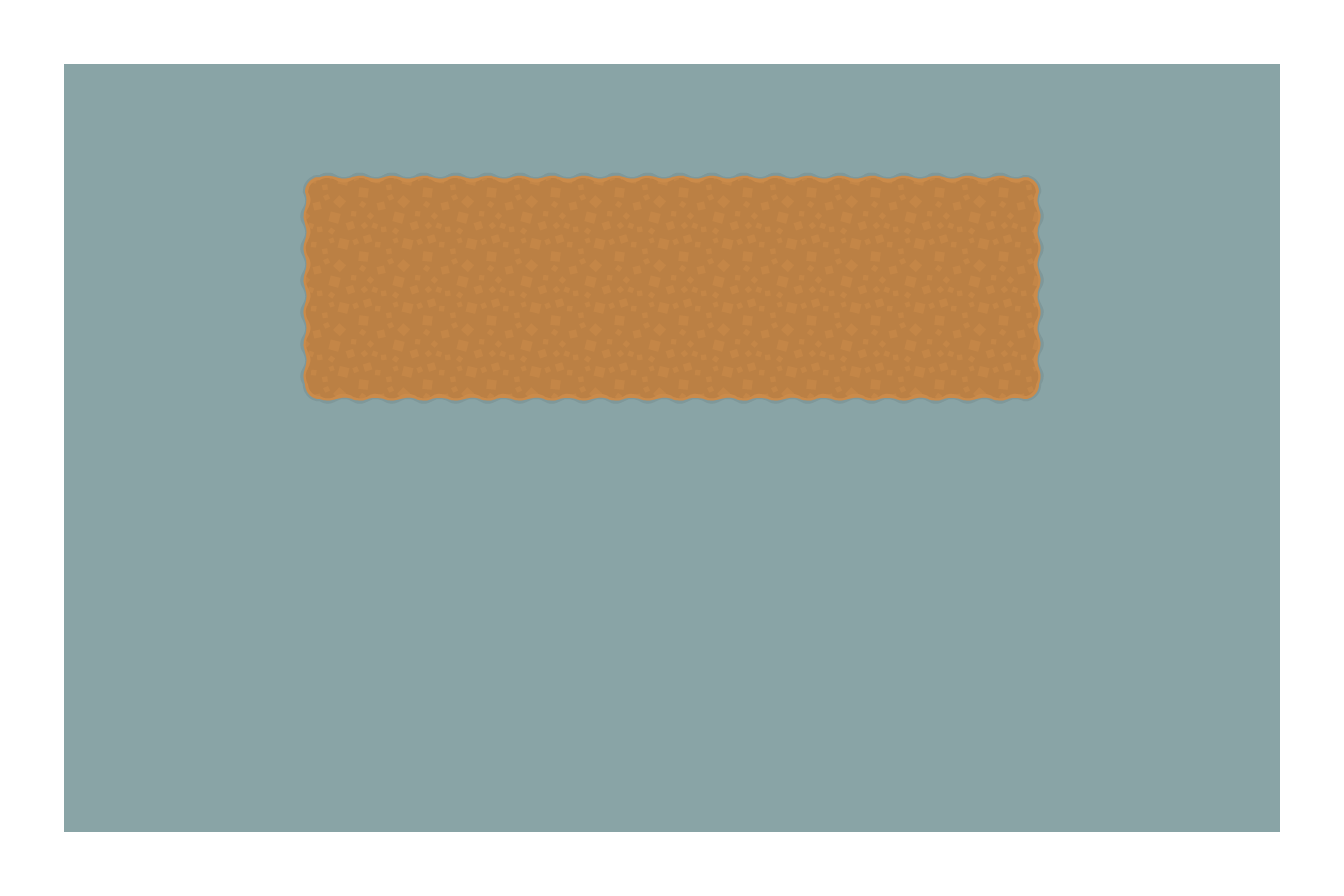
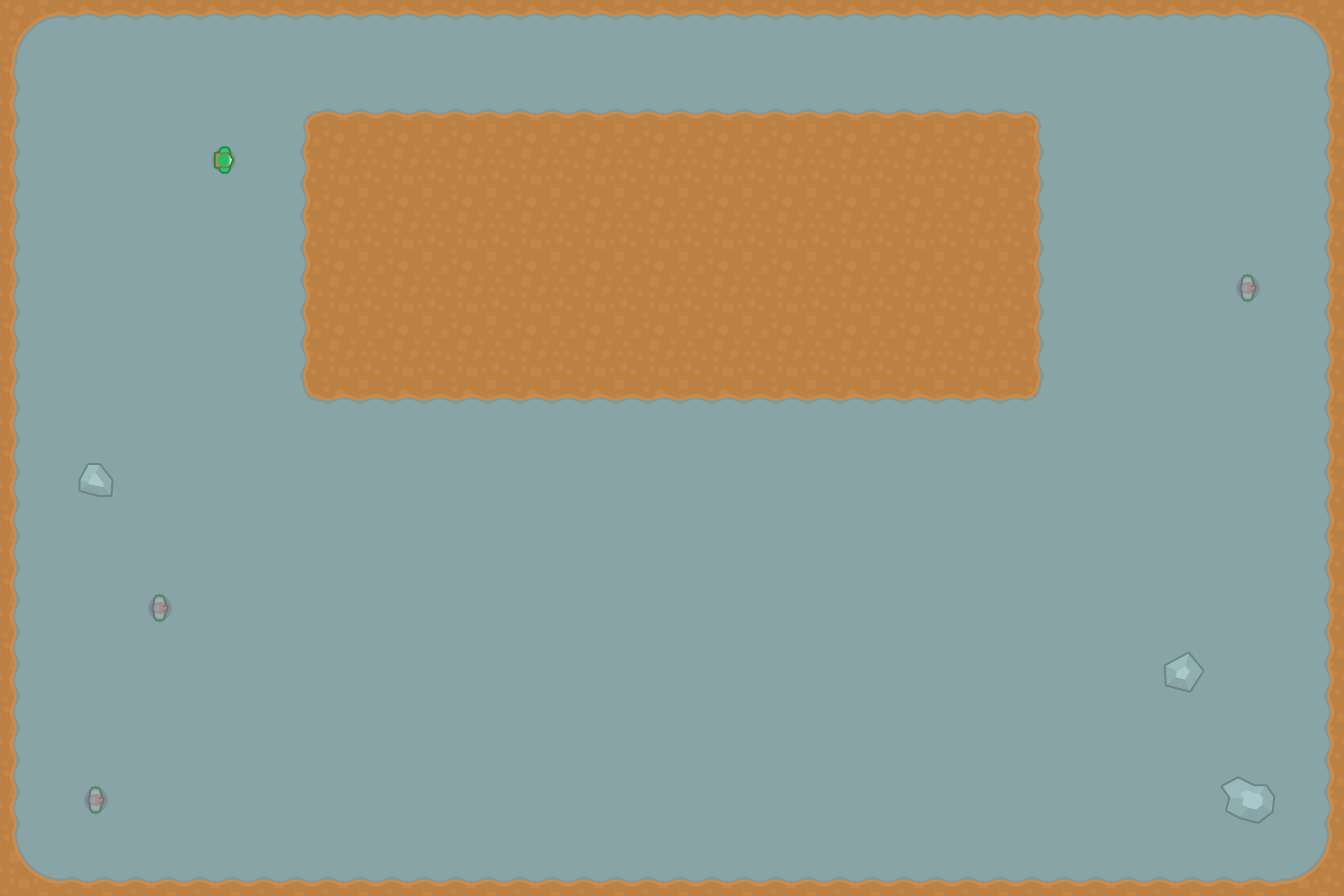
Add losing screen

diff --git a/States/levels/level1.js b/States/levels/level1.js
@@ -32,6 +32,10 @@ const level1State = {
         //Load pause and start buttons
         Game.load.image('pauseButton', './/IMG/pauseButton.png');
         Game.load.image('playButton', './/IMG/playButton.png');
+
+        //Load lose screen atributes
+        Game.load.image('loseBackground', './/IMG/loseScreenBackground.png');
+        Game.load.image('buttonTemplate', './/IMG/buttonTemplate.png');
     },
 
 
@@ -66,7 +70,6 @@ const level1State = {
 
         //Create pause and start buttons
         this.createPausePlayButton('pauseButton');
-
     },
 
     //Functions for create
@@ -292,18 +295,22 @@ const level1State = {
         }
     },
     endGame: function () {
-        // this.enemyTroops.children.forEach(enemy => {
-        //     enemy.body.velocity = 0;
-        // })
+        this.enemyTroops.children.forEach(enemy => {
+            enemy.body.velocity = 0;
+        })
+        Game.paused = true;
+        // Game.camera.fade('#000000', 1000, true, 0.7);
 
-        Game.camera.fade('#000000', 1000, true, 0.7);
+        // Game.camera.onFadeComplete.add(() => {
+        //     Game.world.removeAll();
+        //     this.laodLoseScreen();
+        // });
 
-        Game.camera.onFadeComplete.add(() => Game.state.start('LoseScreen', false));
-
-        // setTimeout(function () {
-        //     Game.state.start('LoseScreen', false, false);
-        //     this.gameEnded = true;
-        // }, 1000)
+        // Game.camera.fade();
+        setTimeout(function () {
+            Game.world.removeAll();
+            level1State.laodLoseScreen();
+        }, "1500");
     },
     dragDropTurret: function () {
         this.draggingTurret.position.x = this.input.activePointer.worldX
@@ -314,8 +321,8 @@ const level1State = {
         let currentTypeOfButton = this.key;
         level1State.pauseButton.destroy();
 
-        if(level1State.draggingTurret) {
-            if(level1State.draggingTurret != 0) {
+        if (level1State.draggingTurret) {
+            if (level1State.draggingTurret != 0) {
                 level1State.draggingTurret.destroy();
             }
         }
@@ -329,6 +336,27 @@ const level1State = {
         } else {
             console.log('unknownTypeOfButton');
         }
+    },
+    laodLoseScreen: function () {
+        let background = Game.add.sprite(Game.width / 2, Game.height / 2, 'loseBackground');
+        background.anchor.setTo(0.5);
+        Game.add.text(Game.width / 2 + 5, 256, 'You lost', {'fontSize': 82, 'font': 'Press Start 2P', 'fill': 'white', 'stroke': '#104726', 'strokeThickness': 18}).anchor.setTo(0.5);
+
+
+        let restartButton = Game.add.button(Game.width / 2, 590, 'buttonTemplate');
+        restartButton.width = 410;
+        restartButton.height = 120;
+        restartButton.anchor.setTo(0.5);
+
+        Game.add.text(Game.width / 2 + 5, 590, 'Restart', {'fontSize': 48, 'font': 'Press Start 2P', 'fill': 'white', 'stroke': '#104726', 'strokeThickness': 12}).anchor.setTo(0.5);
+
+
+        let levelsButton = Game.add.button(Game.width / 2, 750, 'buttonTemplate');
+        levelsButton.width = 260;
+        levelsButton.height = 80;
+        levelsButton.anchor.setTo(0.5);
+        
+        Game.add.text(Game.width / 2 + 3, 750, 'Levels', {'fontSize': 30, 'font': 'Press Start 2P', 'fill': 'white', 'stroke': '#61461b', 'strokeThickness': 8}).anchor.setTo(0.5);
     },
 
 

diff --git a/States/loseScreen.js b/States/loseScreen.js
@@ -3,6 +3,7 @@
 const loseScreenState = {
     preload: function () {
         Game.load.image('background', '../IMG/loseScreenBackground.png');
+        Game.load.image('button', './/IMG/buttonTemplate.png');
     },
 
     create: function () {
@@ -11,12 +12,27 @@ const loseScreenState = {
 
     createBackground: function () {
         let background = Game.add.sprite(Game.width / 2, Game.height / 2, 'background');
-        background.width -= 100
-        background.height -= 100;
         background.anchor.setTo(0.5);
+        Game.add.text(Game.width / 2 + 5, 256, 'You lost', {'fontSize': 82, 'font': 'Press Start 2P', 'fill': 'white', 'stroke': '#104726', 'strokeThickness': 18}).anchor.setTo(0.5);
+
+
+        let restartButton = Game.add.button(Game.width / 2, 590, 'button');
+        restartButton.width = 410;
+        restartButton.height = 120;
+        restartButton.anchor.setTo(0.5);
+
+        Game.add.text(Game.width / 2 + 5, 590, 'Restart', {'fontSize': 48, 'font': 'Press Start 2P', 'fill': 'white', 'stroke': '#104726', 'strokeThickness': 12}).anchor.setTo(0.5);
+
+
+        let levelsButton = Game.add.button(Game.width / 2, 750, 'button');
+        levelsButton.width = 260;
+        levelsButton.height = 80;
+        levelsButton.anchor.setTo(0.5);
+        
+        Game.add.text(Game.width / 2 + 3, 750, 'Levels', {'fontSize': 30, 'font': 'Press Start 2P', 'fill': 'white', 'stroke': '#61461b', 'strokeThickness': 8}).anchor.setTo(0.5);
     },
 
     update: function () {
-
+        // Game.add.text(Game.width / 2 + 10, 190, 'Tower', {'fontSize': 90, 'font': 'Press Start 2P', 'fill': 'white', 'stroke': '#104726', 'strokeThickness': 18}).anchor.setTo(0.5);
     },
 }

diff --git a/main.js b/main.js
@@ -9,4 +9,4 @@ Game.state.add('Level2', level2State);
 Game.state.add('WinScreen', winScreenState);
 Game.state.add('LoseScreen', loseScreenState);
 
-Game.state.start('Level1');
+Game.state.start('Levels');
